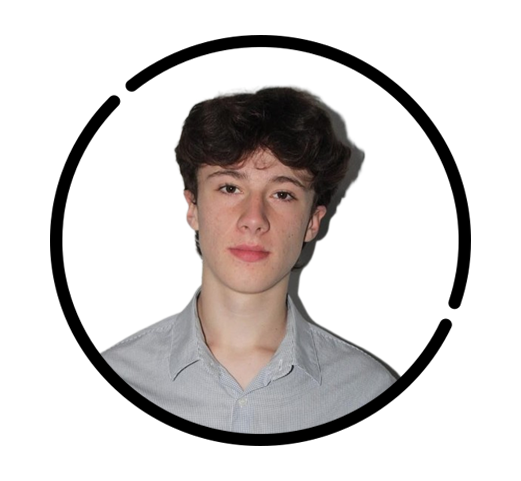
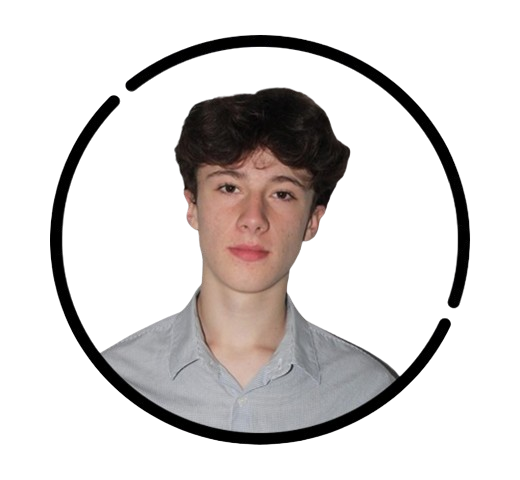
Update general

diff --git a/index.html b/index.html
@@ -81,6 +81,9 @@
     <a> <img src="imgs/github.png" width="45px" height="45px"> <br><p> GitHub </p></a> 
     <a> <img src="imgs/boot.png" width="45px" height="45px"> <br> <p>Bootstrap </p></a>
     <a> <img src="imgs/py.png" width="45px" height="45px"> <br> <p>Python </p></a>
+    <a> <img src="imgs/php.png" width="45px" height="45px"> <br> <p>PHP </p></a>
+    <a> <img src="imgs/sql.png" width="45px" height="45px"> <br> <p>SQL </p></a>
+    <a> <img src="imgs/git.png" width="45px" height="45px"> <br> <p>GIT </p></a>
  
 </div>
 </div></div>
@@ -95,6 +98,12 @@
     <div class="card-body">
       <h5 class="text-light bg-dark">Proyecto expotécnica 2023</h5>
       <p style="font-size: 15px;" class="text-dark-emphasis">Pagina Escuela Tecnica N1 de Grand Bourg.</p>
+      <div class="red-social">
+        <a style="width: 50px;"> <img src="imgs/html.png" width="45px" height="45px"></a> 
+        <a style="width: 50px;"> <img src="imgs/css.png" width="45px" height="45px"></a> 
+    <a style="width: 50px;"> <img src="imgs/boot.png" width="45px" height="45px"></a>
+    <a style="width: 50px;"> <img src="imgs/jvs.png" width="45px" height="45px"></a> 
+        </div>
       <a href="https://github.com/JoacoooWeimann/pagina-tecnica" target="_blank" class="btn btn-primary" style="margin-bottom: 10px;">Code <img src="imgs/github.png" style="margin-left:10px " width="45px" height="45px"></a>
       <a href="https://JoacoooWeimann.github.io/pagina-tecnica/index.html" target="_blank" class="btn btn-primary"  style="margin-bottom: 10px;">Demo <img src="imgs/play.png" style="margin-left:10px " width="45px" height="45px"></a>
     </div>
@@ -105,9 +114,46 @@
     <div class="card-body">
       <h5 class="text-light bg-dark"> Proyecto expotécnica 2022</h5>
       <p style="font-size: 15px;" class="text-dark-emphasis">Pagina Plaza "El Triangulo De Los Niños".</p>
+      <div class="red-social">
+      <a style="width: 50px;"> <img src="imgs/html.png" width="45px" height="45px"></a> 
+      <a style="width: 50px;"> <img src="imgs/css.png" width="45px" height="45px"></a> 
+      </div>
       <a href="https://github.com/JoacoooWeimann/plaza-triangulo" target="_blank" class="btn btn-primary" style="margin-bottom: 10px;">  code <img src="imgs/github.png" style="margin-left:10px " width="45px" height="45px"></a>
       <a href="https://JoacoooWeimann.github.io/plaza-triangulo/index.html" target="_blank" class="btn btn-primary"  style="margin-bottom: 10px;">Demo <img src="imgs/play.png" style="margin-left:10px " width="45px" height="45px"></a>
 
+    </div>
+  </div>
+</div>
+
+
+<div class="row col-lg-12 row py-5 container" style="width:80%;">
+  <div class="card container col-lg-4">
+    <div class="card-body">
+      <h5 class="text-light bg-dark"> Proyecto Foro Informativo <br>2024</h5>
+      <p style="font-size: 15px;" class="text-dark-emphasis">Pagina Web que tiene como objetivo informar a los estudiantes de los eventos que ocurren y ocurriran en la escuela técnica N1 de Grand Bourg.</p>
+      <div class="red-social">
+        <a style="width: 50px;"> <img src="imgs/html.png" width="45px" height="45px"></a> 
+        <a style="width: 50px;"> <img src="imgs/css.png" width="45px" height="45px"></a> 
+    <a style="width: 50px;"> <img src="imgs/boot.png" width="45px" height="45px"></a>
+    <a style="width: 50px;"> <img src="imgs/php.png" width="45px" height="45px"></a> 
+    <a style="width: 50px;"> <img src="imgs/sql.png" width="45px" height="45px"></a> 
+        </div>
+      <h5 class="text-light"> En Proceso...</h5>
+    </div>
+  </div>
+
+  <div class="card container col-lg-4">
+    <div class="card-body">
+      <h5 class="text-light bg-dark"> Proyecto Sigeflex <br>2024</h5>
+      <p style="font-size: 15px;" class="text-dark-emphasis">Sistema de gestion de usuarios, flexible a cualquier dispositivo. Tiene como objetivo poder crear, visualizar, modificar y eliminar usuarios.</p>
+      <div class="red-social">
+        <a style="width: 50px;"> <img src="imgs/html.png" width="45px" height="45px"></a> 
+        <a style="width: 50px;"> <img src="imgs/css.png" width="45px" height="45px"></a> 
+    <a style="width: 50px;"> <img src="imgs/boot.png" width="45px" height="45px"></a>
+    <a style="width: 50px;"> <img src="imgs/php.png" width="45px" height="45px"></a> 
+    <a style="width: 50px;"> <img src="imgs/sql.png" width="45px" height="45px"></a> 
+        </div>
+      <h5 class="text-light"> En Proceso...</h5>
     </div>
   </div>
 
@@ -135,10 +181,10 @@
       <svg xmlns="http://www.w3.org/2000/svg" width="16" height="16" fill="currentColor"   class="bi bi-github" viewBox="0 0 16 16">
         <path d="M8 0C3.58 0 0 3.58 0 8c0 3.54 2.29 6.53 5.47 7.59.4.07.55-.17.55-.38 0-.19-.01-.82-.01-1.49-2.01.37-2.53-.49-2.69-.94-.09-.23-.48-.94-.82-1.13-.28-.15-.68-.52-.01-.53.63-.01 1.08.58 1.23.82.72 1.21 1.87.87 2.33.66.07-.52.28-.87.51-1.07-1.78-.2-3.64-.89-3.64-3.95 0-.87.31-1.59.82-2.15-.08-.2-.36-1.02.08-2.12 0 0 .67-.21 2.2.82.64-.18 1.32-.27 2-.27.68 0 1.36.09 2 .27 1.53-1.04 2.2-.82 2.2-.82.44 1.1.16 1.92.08 2.12.51.56.82 1.27.82 2.15 0 3.07-1.87 3.75-3.65 3.95.29.25.54.73.54 1.48 0 1.07-.01 1.93-.01 2.2 0 .21.15.46.55.38A8.012 8.012 0 0 0 16 8c0-4.42-3.58-8-8-8z"/>
       </svg></a>
-      <a href="https://twitter.com/joacooo_weimann" target="_blank">
-      <svg xmlns="http://www.w3.org/2000/svg"  width="16" height="16" fill="currentColor" class="bi bi-twitter-x" viewBox="0 0 16 16" >
-        <path d="M12.6.75h2.454l-5.36 6.142L16 15.25h-4.937l-3.867-5.07-4.425 5.07H.316l5.733-6.57L0 .75h5.063l3.495 4.633L12.601.75Zm-.86 13.028h1.36L4.323 2.145H2.865l8.875 11.633Z" />
-      </svg></a>
+      <a href="https://ar.linkedin.com/in/joaquin-weimann-309ab62a1?trk=people-guest_people_search-card&original_referer=https%3A%2F%2Fwww.linkedin.com%2F" target="_blank">
+        <svg xmlns="http://www.w3.org/2000/svg" width="16" height="16" fill="currentColor" class="bi bi-linkedin" viewBox="0 0 16 16">
+          <path d="M0 1.146C0 .513.526 0 1.175 0h13.65C15.474 0 16 .513 16 1.146v13.708c0 .633-.526 1.146-1.175 1.146H1.175C.526 16 0 15.487 0 14.854zm4.943 12.248V6.169H2.542v7.225zm-1.2-8.212c.837 0 1.358-.554 1.358-1.248-.015-.709-.52-1.248-1.342-1.248S2.4 3.226 2.4 3.934c0 .694.521 1.248 1.327 1.248zm4.908 8.212V9.359c0-.216.016-.432.08-.586.173-.431.568-.878 1.232-.878.869 0 1.216.662 1.216 1.634v3.865h2.401V9.25c0-2.22-1.184-3.252-2.764-3.252-1.274 0-1.845.7-2.165 1.193v.025h-.016l.016-.025V6.169h-2.4c.03.678 0 7.225 0 7.225z"/>
+        </svg></a>
     </div>
 
     </div>

diff --git a/style.css b/style.css
@@ -186,6 +186,7 @@ main button:active
   text-align: center;
    text-align: center;
   transition: all 300ms ease;
+  margin-bottom: 30PX;
 }
 
 
